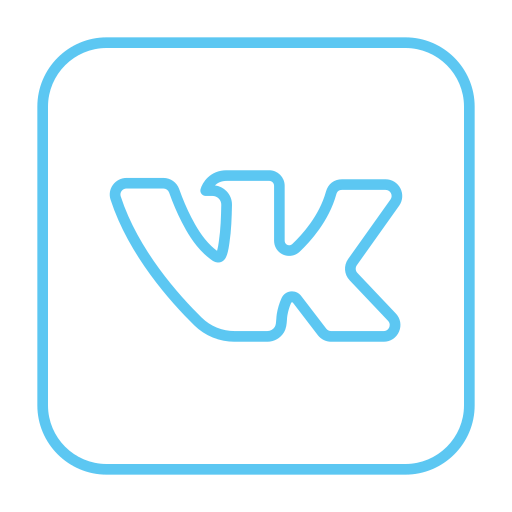
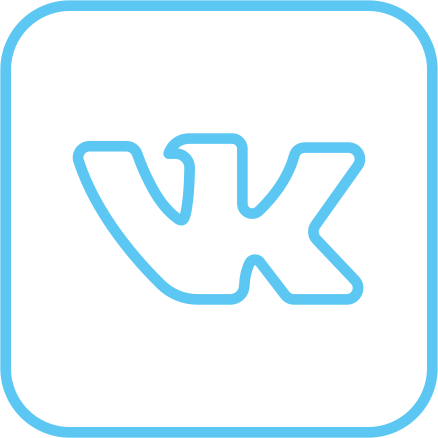
Оптимизированы изображения

Changed region(s): [[0.0, 0.0, 1.0, 1.0], [0.1484, 0.2968, 0.8311, 0.7123]]

diff --git a/src/App.jsx b/src/App.jsx
@@ -8,42 +8,42 @@ function App() {
         <h1 className="title">Рецепты со всего мира</h1>
         <div className="container">
           <div className="item item_large pumpkin">
-            <img className="item__image" src="/home/img11.png" alt="Тыква" />
+            <img className="item__image" src="/home/pumpkin.webp" alt="Тыква" />
             <div className="item__inner">
               <h2 className="item__title">Тыква: польза и вред, как выбирать и готовить </h2>
               <span className="item__subtitle">ОПИСАНИЕ ПРОДУКТА, КАК ЕЕ ХРАНИТЬ, СКОЛЬКО МОЖНО ЕСТЬ И С ЧЕМ СОЧЕТАТЬ</span>
             </div>
           </div>
           <div className="item cookie">
-            <img className="item__image" src="/home/img2.png" alt="Тыква" />
+            <img className="item__image" src="/home/cookies.webp" alt="Новогоднее печенье" />
             <div className="item__inner">
               <h2 className="item__title">Что поставить на новогодний стол разным знакам зодиака </h2>
               <span className="item__subtitle">КОММЕНТАРИИ АСТРОЛОГА И РЕЦЕПТЫ</span>
             </div>
           </div>
           <div className="item beet">
-            <img className="item__image" src="/home/img3.png" alt="Тыква" />
+            <img className="item__image" src="/home/beet.webp" alt="Свекла" />
             <div className="item__inner">
               <h2 className="item__title">Свекла: польза, вред и как готовить </h2>
               <span className="item__subtitle">РЕЦЕПТЫ БЛЮД ИЗ СВЕКЛЫ, РАССКАЗ ДИЕТОЛОГА, ОСОБЕННОСТИ ВЫБОРА И ХРАНЕНИЯ</span>
             </div>
           </div>
           <div className="item soup">
-            <img className="item__image" src="/home/img6.png" alt="Тыква" />
+            <img className="item__image" src="/home/soup.webp" alt="Тыквенный суп" />
             <div className="item__inner">
               <h2 className="item__title">Лучшие рецепты тыквенных супов от шеф-поваров </h2>
               <span className="item__subtitle">ПРОСТЫЕ И ПАРАДНЫЕ, С КАРТОШКОЙ И С ЛАНГУСТИНАМИ, ПОСТНЫЕ И НЕ ТОЛЬКО</span>
             </div>
           </div>
           <div className="item coffee">
-            <img className="item__image" src="/home/img5.png" alt="Тыква" />
+            <img className="item__image" src="/home/coffee.webp" alt="Кофе" />
             <div className="item__inner">
               <h2 className="item__title">Как сварить дома вкусный кофе в турке</h2>
               <span className="item__subtitle">ПОШАГОВАЯ ИНСТРУКЦИЯ ОТ ВЫБОРА ТУРКИ ДО ТОНКОСТЕЙ ПРИГОТОВЛЕНИЯ</span>
             </div>
           </div>
           <div className="item hurma">
-            <img className="item__image" src="/home/img4.png" alt="Тыква" />
+            <img className="item__image" src="/home/hurma.webp" alt="Хурма" />
             <div className="item__inner">
               <h2 className="item__title">Хурма: польза и вред для здоровья </h2>
               <span className="item__subtitle">ОПИСАНИЕ ПРОДУКТА, КАК ЕЕ ХРАНИТЬ, СКОЛЬКО МОЖНО ЕСТЬ И С ЧЕМ СОЧЕТАТЬ</span>

diff --git a/src/authors/Authors.jsx b/src/authors/Authors.jsx
@@ -9,17 +9,17 @@ const Authors = () => {
                 <div className='author__container'>
                     <div className='author__item'>
                         <p className='author__ranking'>2</p>
-                        <img className='author__image' src="/authors/anastasia.png" alt="Анастасия Белякова" />
+                        <img className='author__image' src="/authors/anastasia.webp" alt="Анастасия Белякова" />
                         <h2 className='author__name'>Анастасия Белякова</h2>
                     </div>
                     <div className='author__item'>
                         <p className='author__ranking'>1</p>
-                        <img className='author__image' src="/authors/roman.png" alt="Роман Петрикин" />
+                        <img className='author__image' src="/authors/roman.webp" alt="Роман Петрикин" />
                         <h2 className='author__name'>Роман Петрикин</h2>
                     </div>
                     <div className='author__item'>
                         <p className='author__ranking'>3</p>
-                        <img className='author__image' src="/authors/vigen.png" alt="Виген Горбунов" />
+                        <img className='author__image' src="/authors/vigen.webp" alt="Виген Горбунов" />
                         <h2 className='author__name'>Виген Горбунов</h2>
                     </div>
                 </div>

diff --git a/src/layout/footer/footer.scss b/src/layout/footer/footer.scss
@@ -16,9 +16,27 @@
     }
 
     &__link{
-        font-size: 36px;
+        font-size: 28px;
         color: #f5f5f5;
         text-decoration: unset;
+        position: relative;
+        
+        &::after {
+            position: absolute;
+            content: '';
+            left: 0;
+            right: 100%;
+            top: calc(100% + 5px);
+            height: 2px;
+            transition: all .3s;
+            background-color: white;
+        }
+        
+        &:hover {
+            &::after {
+                right: 0%;
+            }
+        }
     }
 }
 
@@ -33,7 +51,7 @@
 
     &__title{
         color: #1A162E;
-        font-size: 36px;
+        font-size: 32px;
         font-weight: 400;
     }
 
@@ -45,7 +63,14 @@
         list-style: none;
     }
 
+    &__link:hover{
+        .socials__icon{
+            scale: .96;
+        }
+    }
+
     &__icon{
+        transition: scale .2s;
         width: 71px;
         height: 71px;
     }

diff --git a/public/index.html b/public/index.html
@@ -2,7 +2,7 @@
 <html lang="en">
   <head>
     <meta charset="utf-8" />
-    <link rel="icon" href="%PUBLIC_URL%/favicon.ico" />
+    <link rel="icon" href="%PUBLIC_URL%/hat.png" />
     <meta name="viewport" content="width=device-width, initial-scale=1" />
     <meta name="theme-color" content="#000000" />
     <meta
